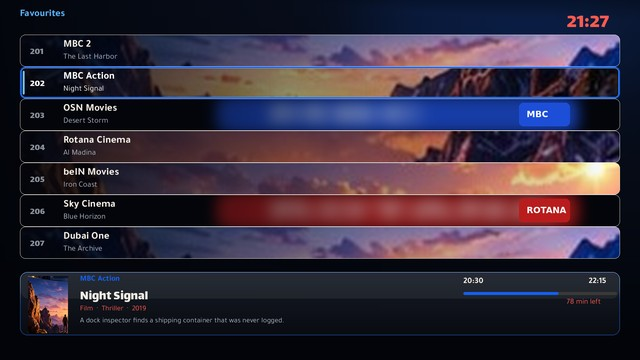
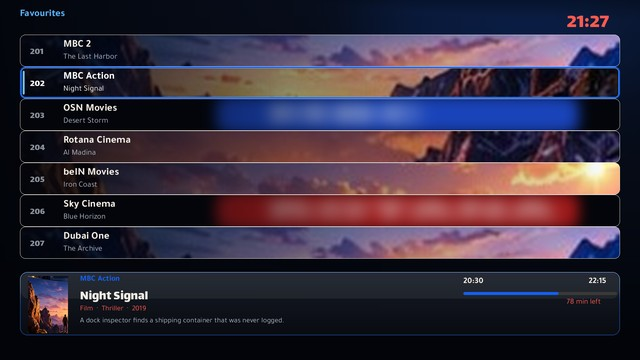
2.1.127

Changed region(s): [[0.8125, 0.275, 0.9062, 0.3667], [0.8125, 0.55, 0.9062, 0.6417]]

diff --git a/usr/lib/enigma2/python/Components/MohammedSkinUtils.py b/usr/lib/enigma2/python/Components/MohammedSkinUtils.py
@@ -35,7 +35,7 @@ MAX_CACHE_FILES = 600
 NEGATIVE_TTL = 30 * 60
 TIMEOUT = 5
 UA = 'Mozilla/5.0 (Enigma2; MohammedSkin)'
-SKIN_VERSION = '2.1.126'
+SKIN_VERSION = '2.1.127'
 UPDATE_BASE = 'https://raw.githubusercontent.com/mido00020/MohammedSkin/main'
 UPDATE_CMD = 'wget -q --no-check-certificate "%s/installer.sh" -O - | NORESTART=1 /bin/sh' % UPDATE_BASE
 DEFAULT_SETTINGS = {'tmdb': '', 'omdb': '', 'fanart': '', 'language': 'en-US', 'posters': True, 'backdrops': True, 'translate': True, 'theme': 'red', 'clock': 'royal', 'clock_smooth': True, 'anim': True, 'menu_style': 'classic', 'channels_style': 'classic', 'infobar_style': 'classic', 'sib_style': 'classic', 'ibposter_style': 'left', 'rating': True, 'image': '', 'family': '', 'ch_font': 'normal', 'ch_preview': 'poster', 'fit_screens': True, 'ib_backdrop': 'band', 'ib_led': True, 'ib_meter_color': 'classic', 'ib_meter_shape': 'line', 'menu_bg': 'auto', 'menu_anim': True, 'osd_fit': True, 'epg_english': True, 'date_format': 'skin', 'label_lang': 'en', 'ib_meter_back': True, 'weather_forecast': True, 'event_color': 'default', 'ch_rows': 'normal', 'pl_font': 'normal', 'ib_alpha': 'normal', 'adult_filter': 'normal', 'weather': True, 'weather_city': '', 'weather_mode': 'auto', 'weather_lat': None, 'weather_lon': None, 'weather_place_en': '', 'weather_place_ar': '', 'weather_units': 'c', 'weather_lang': 'ar', 'ar_text_font': 'tajawal', 'ar_title_font': 'lalezar', 'arabic_posters': 'auto', 'logo3d': True, 'weather_pos': 'top_right', 'pl_layout': 'grid', 'tr_lang': 'ar', 'tr_service': 'auto', 'tr_key': '', 'tr_region': ''}
@@ -1285,13 +1285,13 @@ def _round_save(im, w, h, r, out):
     return out
 
 def picon_art(picon, w, h, accent='#C8102E', ink='#060304'):
-    # A channel with no programme picture: its logo on the right of the row, with a large blurred
-    # copy of it behind as a coloured glow, fading into the skin's dark colour on the left.
+    # A channel with no programme picture: the colours of its logo as a soft glow along the row (no
+    # second copy of the logo: the list already shows it on the left), fading into the skin's dark colour.
     if not picon or w <= 0 or h <= 0:
         return None
     tag = ('%s%s' % (str(accent).lstrip('#'), str(ink).lstrip('#'))).replace('/', '')
     name = os.path.splitext(os.path.basename(picon))[0]
-    out = os.path.join(CACHE_DIR, 'pa_%s_%dx%d_%s.png' % (name, w, h, tag))
+    out = os.path.join(CACHE_DIR, 'pc_%s_%dx%d_%s.png' % (name, w, h, tag))
     if os.path.exists(out):
         return out
     try:
@@ -1313,17 +1313,10 @@ def picon_art(picon, w, h, accent='#C8102E', ink='#060304'):
         glow = Image.new('RGBA', (gw + 2 * pad, gh + 2 * pad), (0, 0, 0, 0))
         glow.paste(logo.resize((gw, gh), lz), (pad, pad))
         glow = glow.filter(ImageFilter.GaussianBlur(rad))
-        a = glow.getchannel('A').point(lambda v: int(v * 0.75))
+        a = glow.getchannel('A').point(lambda v: int(v * 0.85))
         glow.putalpha(a)
         free = 150  # the right end of the row stays clear: the list draws the programme progress bar there
         im.alpha_composite(glow, (w - gw - pad - free + 40, (h - gh) // 2 - pad))
-        ph = int(h * 0.74)
-        pw = max(1, int(lw * ph / float(lh)))
-        if pw > int(w * 0.26):
-            pw = int(w * 0.26)
-            ph = max(1, int(lh * pw / float(lw)))
-        crisp = logo.resize((pw, ph), lz)
-        im.alpha_composite(crisp, (w - pw - free, (h - ph) // 2))
         dark = Image.new('RGBA', (w, h), ink_rgb + (255,))
         ramp = Image.new('L', (256, 1))
         for x in range(256):
